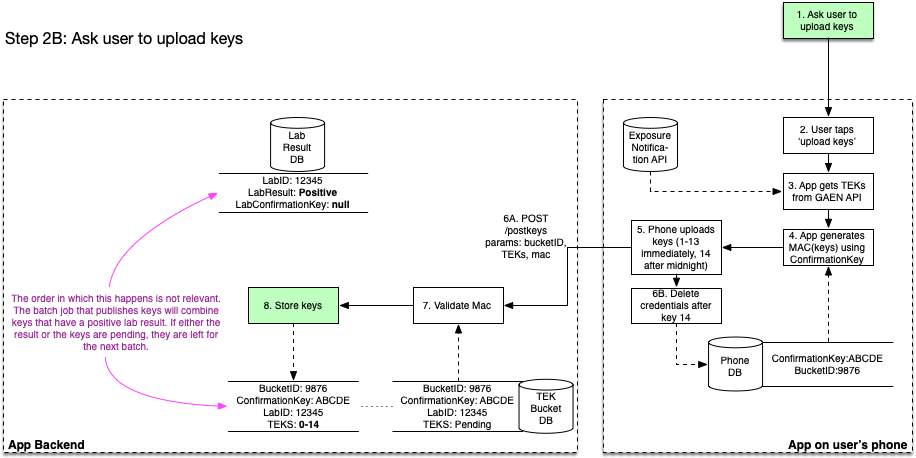
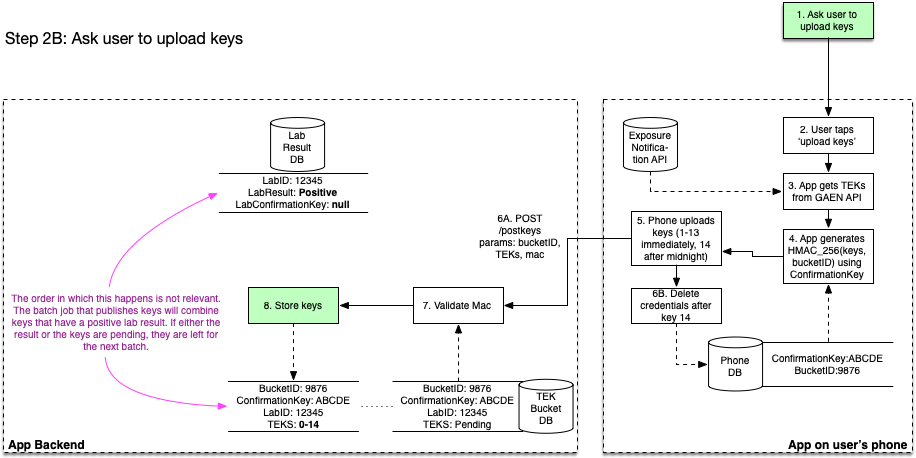
128 -> 256 bit, correct hashes in diagrams

Changed region(s): [[0.5197, 0.4585, 0.8253, 0.6114], [0.8559, 0.4891, 0.9476, 0.6419]]

diff --git a/architecture/Solution Architecture.md b/architecture/Solution Architecture.md
@@ -262,7 +262,7 @@ The following data flow diagram depicts how one time ICC codes are generated in 
 
 ### Phase 2, step A: Calling the patient and exchanging a key
 
-When the patient is called, a token is exchanged for a 128 bit key. The shorter token is useful to communicate over the phone, but we want to exchange it for a 128-bit key because there's some time between the first key upload and the last key upload (which apple and google only release after midnight) and we want to have protection against brute force attacks on the key exchange. (the infrastructure will also mitigate these attacks but our policy is that the data should be secure regardless of the infrastructure quality). We call the process an 'enrollment' because it equips the phone with a key.
+When the patient is called, a token is exchanged for a 256 bit key. The shorter token is useful to communicate over the phone, but we want to exchange it for a 256-bit key because there's some time between the first key upload and the last key upload (which apple and google only release after midnight) and we want to have protection against brute force attacks on the key exchange. (the infrastructure will also mitigate these attacks but our policy is that the data should be secure regardless of the infrastructure quality). We call the process an 'enrollment' because it equips the phone with a key.
 
 Note that although the process has many steps, for the user this is just the part where the caller ask the user for a code. 
 
